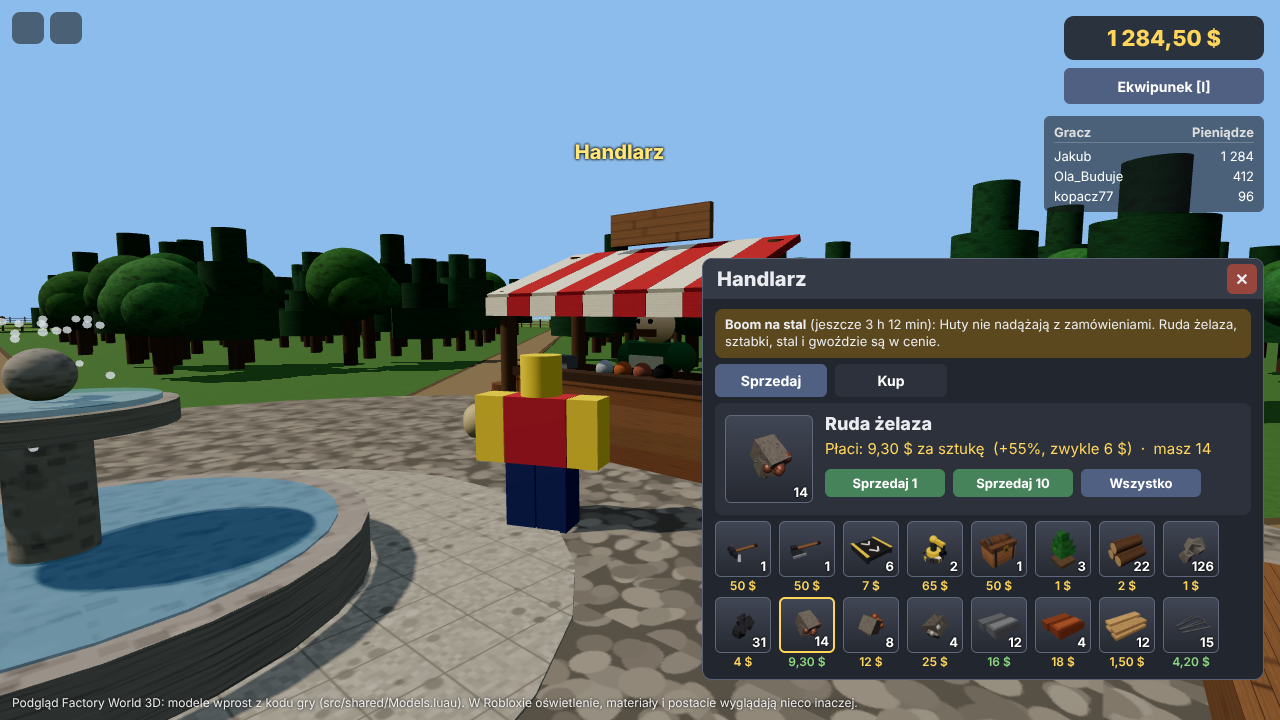
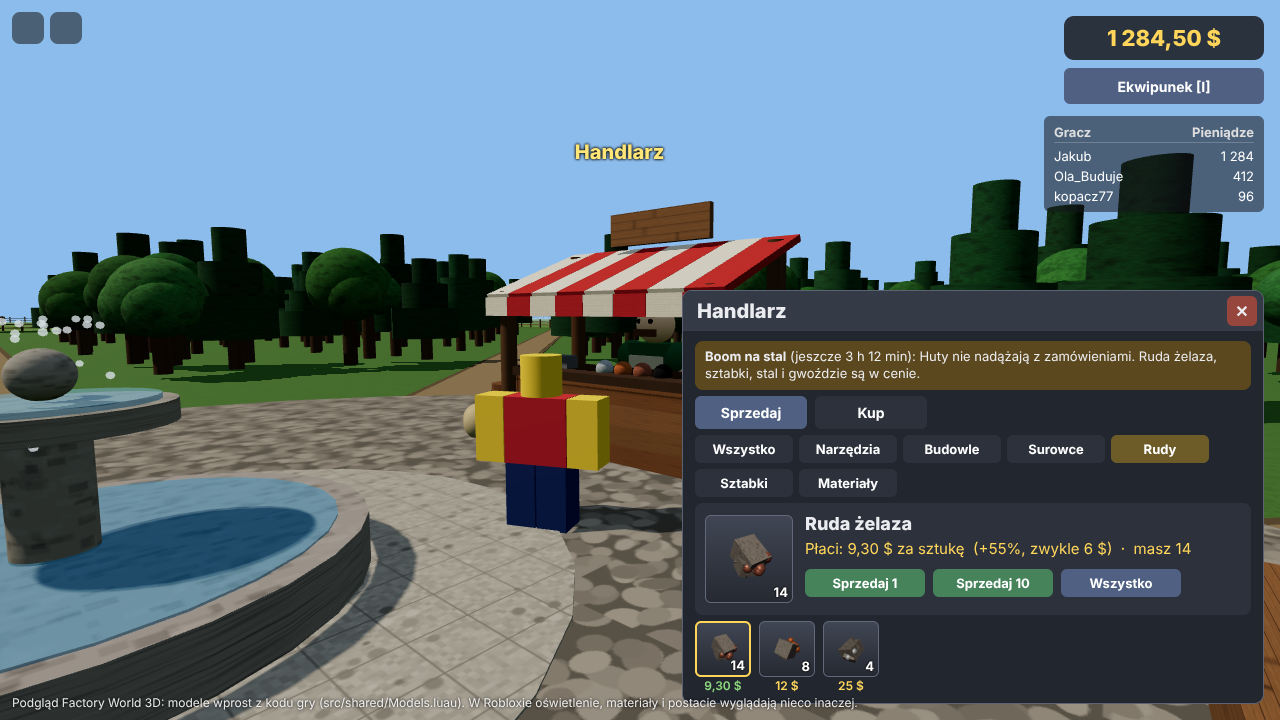
Categories in the merchant's and the market's windows, market search
Items.Category groups every item (tools, buildings, machines, raw
materials, ores, ingots, materials); both windows get wrapping group
tabs, and the market a search box that filters by name.

Claude-Session: https://claude.ai/code/session_015q7rLHNJ66CFDjTGWXE1aJ

Changed region(s): [[0.5312, 0.3361, 1.0, 0.9778]]

diff --git a/tools/preview/scene.js b/tools/preview/scene.js
@@ -129,6 +129,9 @@ function card(r, subtitle, actions) {
     <div style="position:absolute;left:110px;top:116px;display:flex;gap:8px;align-items:center;font-size:13px">${actions}</div></div>`;
 }
 const tabs = (list, current) => `<div class="tabs">${list.map((t) => `<span class="btn ${t === current ? "alt" : "off"}">${t}</span>`).join("")}</div>`;
+const catTabs = (current, ids) => { const cs = lua.call("Items.Categories"); const present = new Set(ids.map((id) => lua.call(`Items.Category("${id}")`)));
+  return `<div style="display:flex;flex-wrap:wrap;gap:6px">${[{ id: "all", name: "Wszystko" }, ...cs.filter((c) => present.has(c.id))].map((c) =>
+    `<span class="btn" style="width:98px;box-sizing:border-box;text-align:center;padding:6px 0;background:${c.id === current ? "#6e5c28" : "#2c313b"}">${c.name}</span>`).join("")}</div>`; };
 // What is in a machine or furnace: tiles, an arrow with the progress, what is ready (Machine.Contents).
 const contents = (inputs, progress, output) => `<div style="display:flex;gap:8px;align-items:flex-start">${inputs.join("")}
   <div style="width:90px;flex:none;text-align:center"><div class="muted" style="font-size:26px;line-height:34px">➜</div><div class="bar" style="height:10px;margin:4px 4px 0;background:#181b21"><i style="width:${progress * 100}%"></i></div></div>${output}</div>`;
@@ -179,14 +182,15 @@ function views() {
     out["4-handlarz"] = { objects, camera: { pos: [17, 6.5, 1], look: [2, 4.5, -17] }, shadowRadius: 60, hud: "1 284,50 $", caption,
       avatars: [{ at: [4, 0, -10], yaw: Math.PI + 0.4, shirt: [200, 60, 60] }],
       labels: [{ at: [L.Stall.x, 13.5, L.Stall.z], text: "Handlarz", color: "#ffe678", size: 20 }, { at: [L.Workbench.x, 7.5, L.Workbench.z], text: "Stół warsztatowy", color: "#dce6ff", size: 15 }],
-      overlay: `<div class="win" style="width:560px;right:16px;bottom:40px"><div class="hd">Handlarz<span class="x">✕</span></div><div class="bd">
+      overlay: `<div class="win" style="width:580px;right:16px;bottom:16px"><div class="hd">Handlarz<span class="x">✕</span></div><div class="bd">
         <div class="card" style="background:#5c481e;padding:7px 10px;font-size:13px;line-height:1.35"><b>Boom na stal</b> (jeszcze 3 h 12 min): Huty nie nadążają z zamówieniami. Ruda żelaza, sztabki, stal i gwoździe są w cenie.</div>
         ${tabs(["Sprzedaj", "Kup"], "Sprzedaj")}
+        ${catTabs("ores", sellable.map(([id]) => id))}
         <div class="card" style="height:112px"><div style="position:absolute;left:10px;top:12px">${slot("iron_ore", "14", { size: 88 })}</div>
           <div style="position:absolute;left:110px;top:10px;font-weight:800;font-size:18px">Ruda żelaza</div>
           <div class="gold" style="position:absolute;left:110px;top:36px;font-size:15px">Płaci: 9,30 $ za sztukę &nbsp;(+55%, zwykle 6 $) &nbsp;·&nbsp; masz 14</div>
           <div style="position:absolute;left:110px;top:66px;display:flex;gap:8px"><span class="btn" style="width:100px;text-align:center">Sprzedaj 1</span><span class="btn" style="width:100px;text-align:center">Sprzedaj 10</span><span class="btn alt" style="width:100px;text-align:center">Wszystko</span></div></div>
-        <div style="display:flex;flex-wrap:wrap;gap:4px 8px">${sellable.map(([id, cents]) => slot(id, have[id], { size: 56, caption: lua.call(`Money.Format(${boom[id] ? Math.round(cents * (100 + boom[id]) / 100) : cents})`), captionColor: boom[id] ? GREEN : GOLD, stroke: id === "iron_ore" ? GOLD : null })).join("")}</div>
+        <div style="display:flex;flex-wrap:wrap;gap:4px 8px">${sellable.filter(([id]) => lua.call(`Items.Category("${id}")`) === "ores").map(([id, cents]) => slot(id, have[id], { size: 56, caption: lua.call(`Money.Format(${boom[id] ? Math.round(cents * (100 + boom[id]) / 100) : cents})`), captionColor: boom[id] ? GREEN : GOLD, stroke: id === "iron_ore" ? GOLD : null })).join("")}</div>
       </div></div>` };
   }
   // 5. The models side by side.
@@ -428,7 +432,7 @@ function views() {
     const offers = { planks: [250, 105], wood: [220, 340], iron_ingot: [1150, 48], stone: [95, 900], coal: [450, 120], nails: [320, 60], logistics_belt: [900, 12] };
     const locked = ["furniture_stonemason", "furniture_crusher", "furniture_foundry", "crushed_iron_ore", "crushed_copper_ore", "crushed_tin_ore", "sand", "bronze_ingot", "steel_ingot", "bricks", "stone_blocks"];
     const money = (c) => lua.call(`Money.Format(${c})`);
-    const tiles = lua.call("Items.Order").map((id) => {
+    const tiles = lua.call("Items.Order").filter((id) => lua.call(`Items.Category("${id}")`) === "materials").map((id) => {
       const o = offers[id];
       return slot(id, o ? o[1] : "", { size: 52, dim: locked.includes(id), badge: locked.includes(id) ? "🔒" : null, caption: o ? money(o[0]) : "—", captionColor: o ? GOLD : null, stroke: id === "planks" ? GOLD : null });
     });
@@ -436,8 +440,9 @@ function views() {
     out["11-rynek"] = { objects, camera: { pos: [17, 6.5, 1], look: [2, 4.5, -17] }, shadowRadius: 60, hud: "1 284,50 $", caption,
       overlay: `<div class="win" style="width:900px;left:50%;transform:translateX(-50%);top:40px;bottom:30px;overflow:hidden"><div class="hd">Rynek graczy<span class="x">✕</span></div><div class="bd">
         ${tabs(["Rynek", "Moje oferty"], "Rynek")}
+        ${catTabs("materials", lua.call("Items.Order"))}
         <div style="display:flex;gap:12px">
-          <div style="width:300px;flex:none"><div class="muted" style="font-size:13px;margin-bottom:4px">Towary (najniższa cena)</div>
+          <div style="width:300px;flex:none"><div style="width:284px;height:32px;box-sizing:border-box;border-radius:6px;background:#181b21;border:1px solid #5a6273;padding:7px 8px;font-size:15px;color:#a0a6b2">Szukaj, np. deski</div><div class="muted" style="font-size:13px;margin:6px 0 4px">Towary (najniższa cena)</div>
             <div style="display:grid;grid-template-columns:repeat(5,52px);gap:2px 6px">${tiles.join("")}</div></div>
           <div style="flex:1;display:flex;flex-direction:column;gap:6px">
             <div class="card" style="height:100px"><div style="position:absolute;left:10px;top:12px">${slot("planks", "12", { size: 76 })}</div>

diff --git a/README.md b/README.md
@@ -44,7 +44,7 @@ Zbudowanie pliku miejsca bez Studio: `rojo build -o FactoryWorld3D.rbxl`.
 ## Sterowanie
 
 Chodzenie jak w każdej grze Roblox. **E** (przytrzymaj) przy kopalni kopie, przy drzewie ścina, przy handlarzu, stole i piecu otwiera okno.
-**I** otwiera ekwipunek: kratka 20 pól jak w grze 2D (przeciągnij, aby przenieść). W oknach skrzyni, pieca i maszyny kliknięcie pola w kratce ekwipunku wkłada cały stos (Shift: połowę), a kliknięcie pola skrzyni go wyjmuje. Stół warsztatowy i maszyny pokazują przepisy jako kafelki z ikonami 3D (zakładki na stole, złota ramka = wybrany, zielona = masz składniki, kłódka = wymaga badań). Karta przepisu pokazuje składniki z liczbą „masz/potrzeba” (brakujące na czerwono) i przycisk „Wytwórz” albo „Ustaw przepis”. To, co jest w piecu i maszynie, widać jako kafelki z paskiem postępu; kliknięcie kafelka wyjmuje zawartość. Handlarz pokazuje towary jako kafelki z ceną (zielona = lepsza niż zwykle, czerwona = gorsza), a u góry trwające albo następne wydarzenie rynkowe. **M** (albo przycisk *Rynek graczy*) otwiera rynek graczy: po lewej towary z najniższą ceną, po prawej oferty wybranego towaru (*Kup*, *Sprzedaj*) i formularz *Ilość* + *Cena za szt.* z przyciskami *Wystaw na sprzedaż* i *Złóż zamówienie*; zakładka *Moje oferty* pozwala je anulować (reszta wraca). **Esc** zamyka okno. Nowy gracz dostaje kilof, siekierę i 50 $. Zwykłe ceny skupu i sprzedaży są takie jak w grze 2D.
+**I** otwiera ekwipunek: kratka 20 pól jak w grze 2D (przeciągnij, aby przenieść). W oknach skrzyni, pieca i maszyny kliknięcie pola w kratce ekwipunku wkłada cały stos (Shift: połowę), a kliknięcie pola skrzyni go wyjmuje. Stół warsztatowy i maszyny pokazują przepisy jako kafelki z ikonami 3D (zakładki na stole, złota ramka = wybrany, zielona = masz składniki, kłódka = wymaga badań). Karta przepisu pokazuje składniki z liczbą „masz/potrzeba” (brakujące na czerwono) i przycisk „Wytwórz” albo „Ustaw przepis”. To, co jest w piecu i maszynie, widać jako kafelki z paskiem postępu; kliknięcie kafelka wyjmuje zawartość. Handlarz i rynek graczy dzielą towary na zakładki (Narzędzia, Budowle, Maszyny, Surowce, Rudy, Sztabki, Materiały), a rynek ma też pole *Szukaj*. Handlarz pokazuje towary jako kafelki z ceną (zielona = lepsza niż zwykle, czerwona = gorsza), a u góry trwające albo następne wydarzenie rynkowe. **M** (albo przycisk *Rynek graczy*) otwiera rynek graczy: po lewej towary z najniższą ceną, po prawej oferty wybranego towaru (*Kup*, *Sprzedaj*) i formularz *Ilość* + *Cena za szt.* z przyciskami *Wystaw na sprzedaż* i *Złóż zamówienie*; zakładka *Moje oferty* pozwala je anulować (reszta wraca). **Esc** zamyka okno. Nowy gracz dostaje kilof, siekierę i 50 $. Zwykłe ceny skupu i sprzedaży są takie jak w grze 2D.
 
 **B** (albo przycisk *Budowanie*) włącza tryb budowania na siatce działki: **1–9** wybiera taśmociąg, podajnik,
 skrzynię, piec, sadzonkę albo maszynę (maszyny widać na pasku, gdy ma się którąś w ekwipunku), **R** obraca, kliknięcie stawia (przeciągnięcie układa taśmę, która skręca razem z ruchem),
